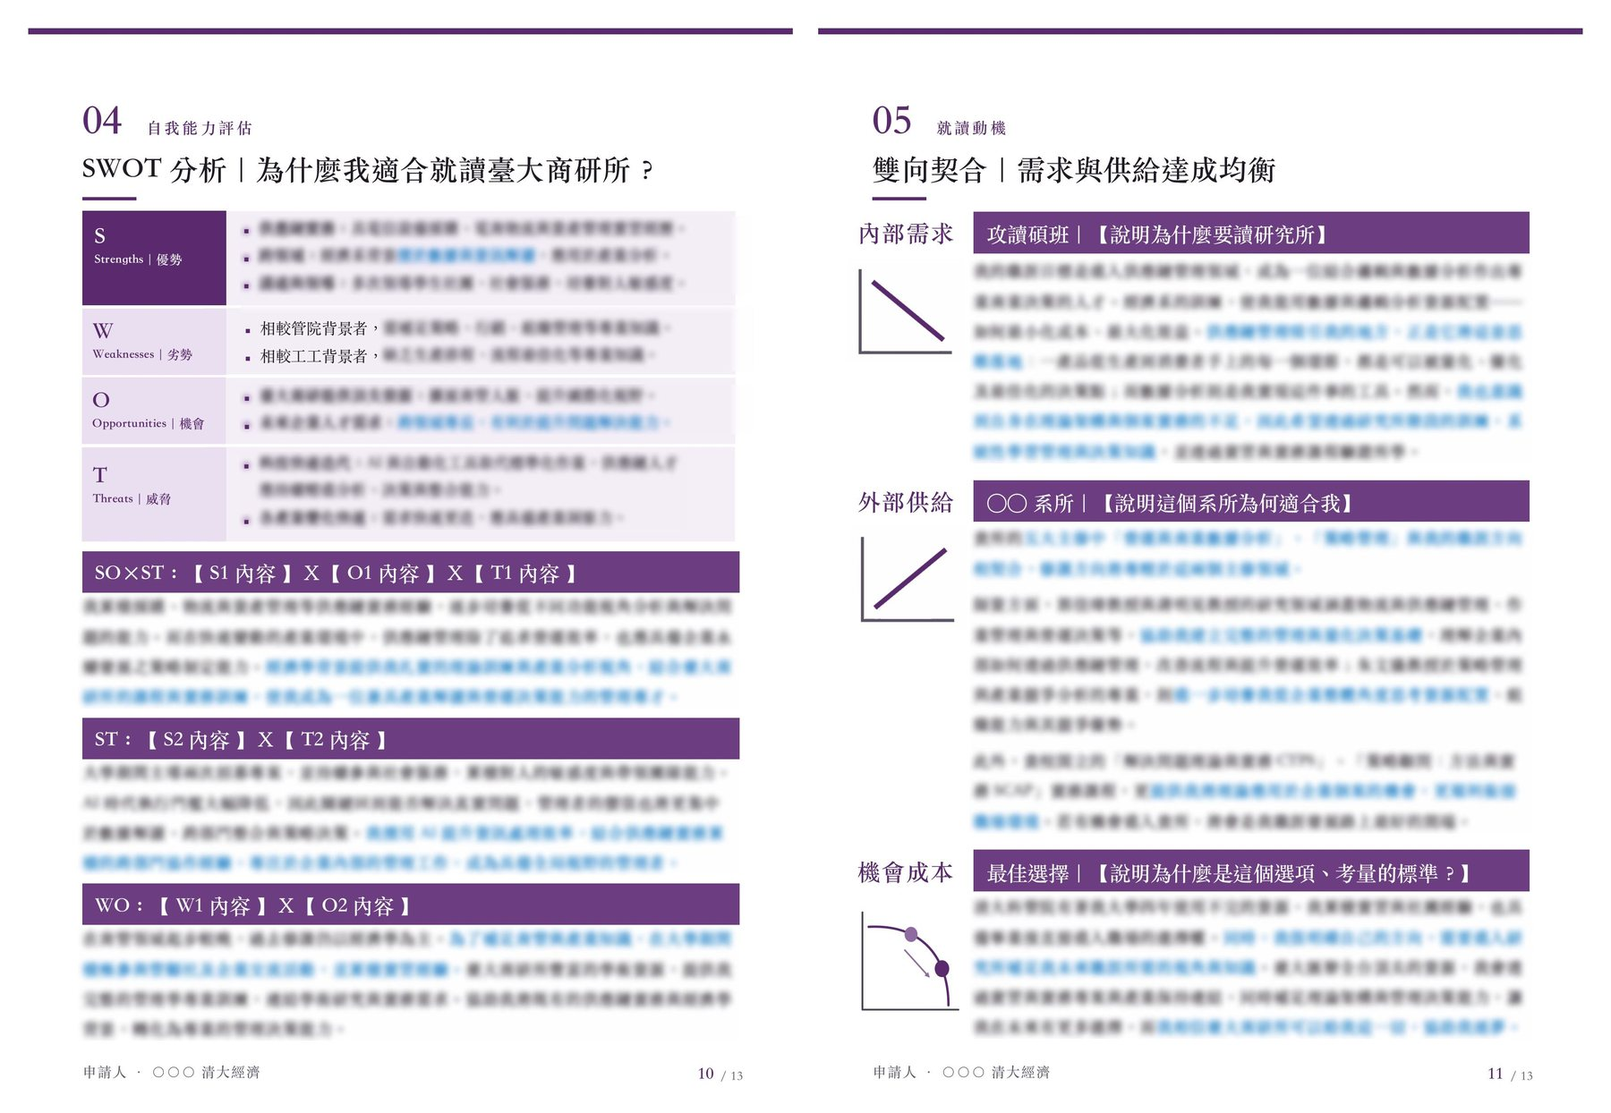
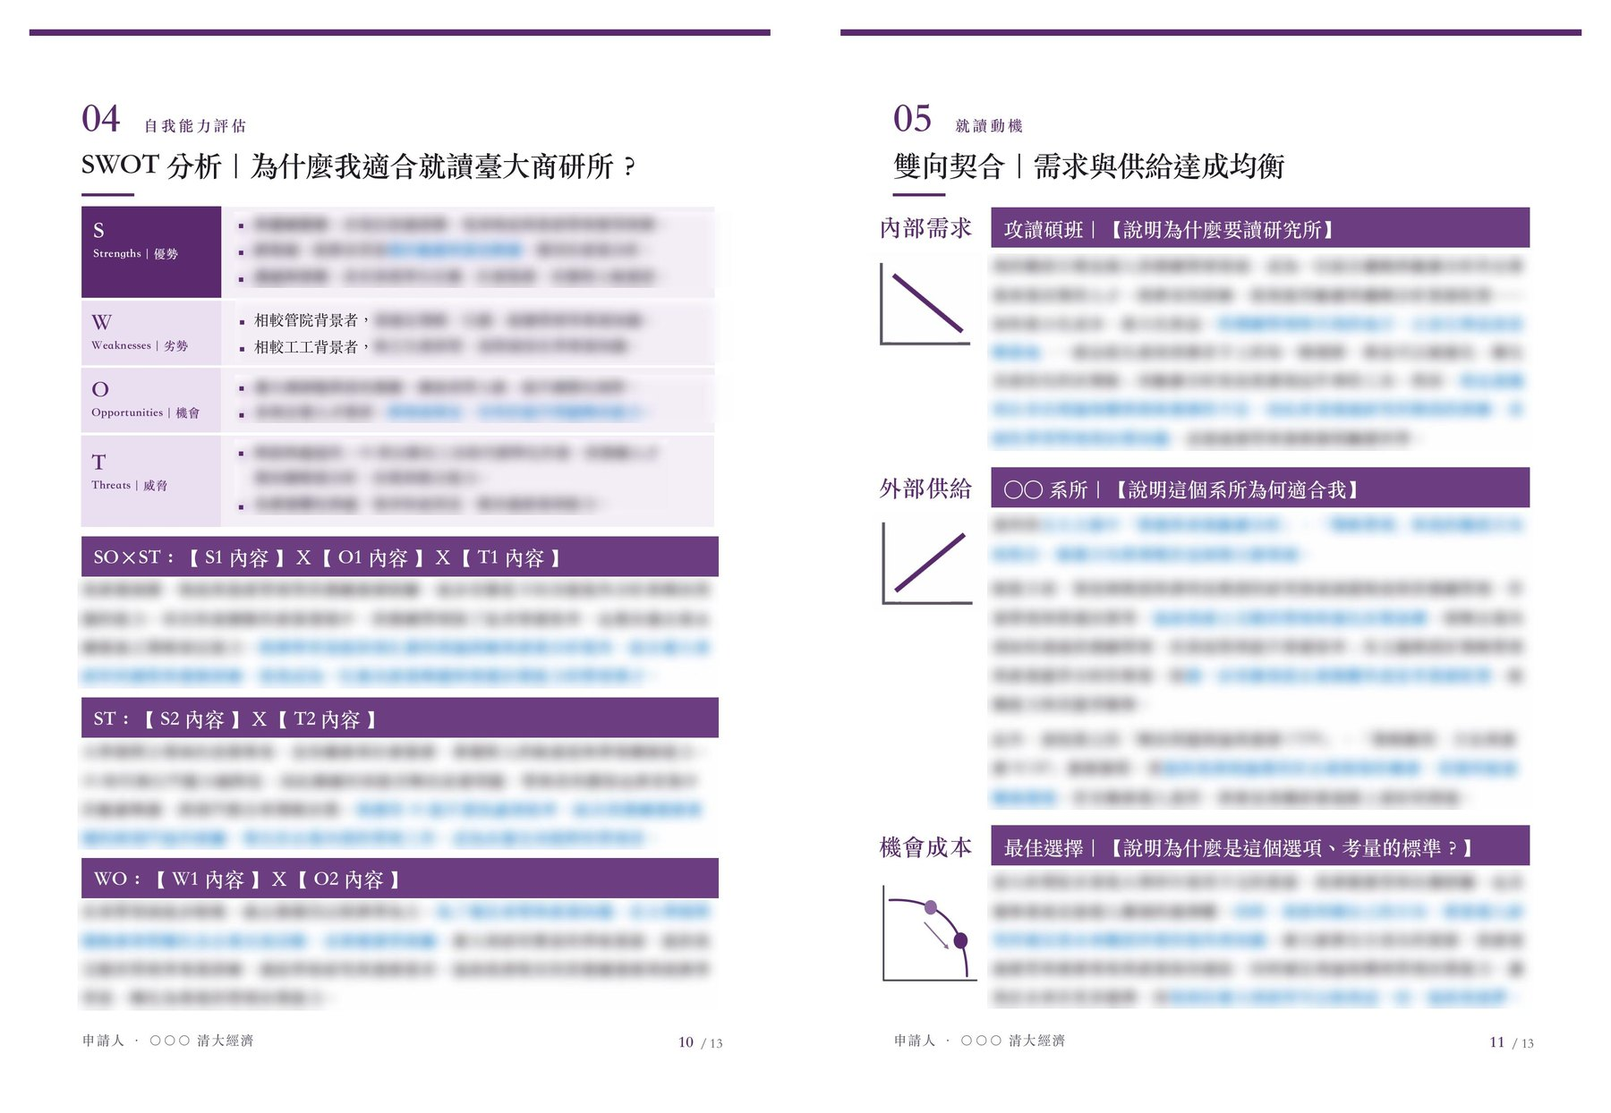
docs: heavier-blur plan images from Notion; cover/TOC/CV as one image

diff --git a/docs.html b/docs.html
@@ -8,7 +8,7 @@
 <meta content="Royee Chu" name="author"/>
 <meta content="台大商研所、國企所推甄書審：個人資料表、學習計畫書、其他有利審查資料與 Checklist。" name="description"/>
 <script>try{var t=localStorage.getItem("theme");if(t)document.documentElement.dataset.theme=t}catch(e){}</script>
-<link href="assets/site.css?v=1795760256" rel="stylesheet"/>
+<link href="assets/site.css?v=1795760695" rel="stylesheet"/>
 
 <link rel="icon" href="favicon-32.png" type="image/png" sizes="32x32" />
 <link rel="icon" href="favicon.svg" type="image/svg+xml" />
@@ -31,8 +31,8 @@
 <p><mark>整包申請中最重要的一項</mark>，我是學習計劃書完成才回來寫。<mark>書審階段要精心打磨，口試時要能侃侃而談</mark>。</p>
 <h3>一、揚長避短</h3>
 <ol><li>盡可能展現自己優勢中相對強勢的部分、避免過多著墨於優勢中的劣勢。<br><small>eg. 多益 860-895 &gt; 金色，900+ &gt; 直接寫分數</small></li><li>口試時，教授勢必會在其中挑 1-2 題來問，其中<mark>社團經歷更是考古題中的常客</mark>，建議花點心思準備。</li></ol><h3>二、視覺化
-</h3><ol><li>將欄位以表格的形式呈現，展現資訊呈現的功力，也能突顯個人的亮點。</li><li>商研所限制較多，有既定的格式、書寫要求（僅能列點說明）；國企所雖限 1 頁但有更大排版彈性，可以在欄位內自由運用。</li></ol><p>不過，我認為<mark>最重要還是展現個人故事線</mark>。我自己不到 900 分但還是放了分數，因為我想展現我後來我的英文能力是有成長的（雅思），事實上也真的在口試被問到。當然這沒有一個放諸四海的標準，就看個人選擇。</p><div class="shots pair"><figure class="shot" style="flex:0.796"><img loading="lazy" src="img/profile-1.jpg?v=1795760256" alt=""><figcaption><small>116 商研 [節錄範例]</small></figcaption></figure>
-<figure class="shot" style="flex:2.148"><img loading="lazy" src="img/profile-2.jpg?v=1795760256" alt=""><figcaption><small>116 國企 [節錄範例]</small></figcaption></figure>
+</h3><ol><li>將欄位以表格的形式呈現，展現資訊呈現的功力，也能突顯個人的亮點。</li><li>商研所限制較多，有既定的格式、書寫要求（僅能列點說明）；國企所雖限 1 頁但有更大排版彈性，可以在欄位內自由運用。</li></ol><p>不過，我認為<mark>最重要還是展現個人故事線</mark>。我自己不到 900 分但還是放了分數，因為我想展現我後來我的英文能力是有成長的（雅思），事實上也真的在口試被問到。當然這沒有一個放諸四海的標準，就看個人選擇。</p><div class="shots pair"><figure class="shot" style="flex:0.796"><img loading="lazy" src="img/profile-1.jpg?v=1795760695" alt=""><figcaption><small>116 商研 [節錄範例]</small></figcaption></figure>
+<figure class="shot" style="flex:2.148"><img loading="lazy" src="img/profile-2.jpg?v=1795760695" alt=""><figcaption><small>116 國企 [節錄範例]</small></figcaption></figure>
 </div>
 
 </div>
@@ -43,35 +43,32 @@
 <p>圍繞著兩條故事線：<mark>我現在是一個什麼樣的人，以及我未來的發展方向是什麼</mark>。</p><p>而為了達成這個目標，我過去付出了哪些行動、成果如何、又對我帶來了哪些影響。</p>
 <h3>一、封面、目錄、簡歷</h3>
 <h4>1. 封面、目錄｜</h4><p>見仁見智，可做可不做。若要做封面就得好好設計，畢竟是第一頁。封面我是放了 1–2 句話點出我的兩條故事線（我是誰、我想做啥），搭配 3–4 組數據（GPA、排名、獎項、檢定成績）。由於我的故事線不適合把動機寫在書審資料的前半段，因此有做目錄讓對動機比較感興趣的教授可以直接跳轉。</p><h4>2. 個人簡歷｜</h4><p>再次提及書審的兩條故事線（同封面），感覺放 CV 怪怪的，還是參考排版客製化了一份。</p>
-<div class="shots pair">
-<figure class="shot" style="flex:1.412"><img loading="lazy" src="img/plan-0.jpg?v=1795760256" alt=""><figcaption>封面、目錄</figcaption></figure>
-<figure class="shot" style="flex:0.707"><img loading="lazy" src="img/plan-cv.jpg?v=1795760256" alt=""><figcaption>個人簡歷</figcaption></figure>
-</div>
+<figure class="shot wide"><img loading="lazy" src="img/plan-0.jpg?v=1795760695" alt="封面、目錄、個人簡歷"><figcaption>封面、目錄、個人簡歷</figcaption></figure>
 <h3>二、自傳、求學經歷</h3>
 <p>成長背景簡單帶過，把區塊獨立出來，它的功能是銜接：我是如何建立起以下這些特質的</p>
 <p>要寫好個人特質真是門學問。我的原則不花篇幅<mark>描述這個特質，取而代之的是</mark>透過社團、實習等具體事蹟，讓教授感受到我確實有ＯＯ特質。最後再把這些特質收束成我在團隊中、在未來職涯中會是什麼樣的人。</p><p>至於要選哪些特質，可以參考系所官網，不外乎領導力、溝通能力、團隊合作等（至少要挑 1–2 個寫）</p>
-<figure class="shot wide"><img loading="lazy" src="img/plan-1.jpg" alt="自傳：成長背景 × 多元特質"><figcaption>自傳：成長背景 × 多元特質</figcaption></figure>
+<figure class="shot wide"><img loading="lazy" src="img/plan-1.jpg?v=1795760695" alt="自傳：成長背景 × 多元特質"><figcaption>自傳：成長背景 × 多元特質</figcaption></figure>
 <div class="cols"><div class="col"><h3>求學經歷<small>三段</small></h3><ul><li>為什麼讀ＯＯ科系、當時的目標是什麼</li><li>職涯方向的轉變 / 探索</li><li>現在（未來）想發展的領域是......</li></ul></div><div class="col"><h3>修課經歷<small>兩段</small></h3><ul><li>大學的三年是如何規劃（修了什麼課、課外活動、交換）、成績如何、修課領域分佈。</li><li>如何連結到ＯＯ所、ＯＯ所能給我什麼效益。</li></ul></div></div>
 
 
-<figure class="shot wide"><img loading="lazy" src="img/plan-2.jpg" alt="求學與修課經歷"><figcaption>成績走勢根據個人情況調整，去年我是用折線圖，由於這兩學期成績下修，柱狀圖會更適合；修課佔比則是作為這「整頁」故事的輔助資料。</figcaption></figure><h3>三、專業能力養成<small>Anything: 實習、社團、競賽、專案、專題等</small></h3>
+<figure class="shot wide"><img loading="lazy" src="img/plan-2.jpg?v=1795760695" alt="求學與修課經歷"><figcaption>成績走勢根據個人情況調整，去年我是用折線圖，由於這兩學期成績下修，柱狀圖會更適合；修課佔比則是作為這「整頁」故事的輔助資料。</figcaption></figure><h3>三、專業能力養成<small>Anything: 實習、社團、競賽、專案、專題等</small></h3>
 <p>都強烈建議善用表格、STAR 法則，其中 S&amp;T 儘量壓縮，<mark>篇幅留給 Action 和 Result</mark>。</p>
 <ul>
 <li><b>S</b>：用 2–3 行交代專案的背景：專案的目標是什麼，我的職責 / 任務又是什麼。</li><li><b>T</b>：將最終目標拆成 2-3 個欲達成的任務。</li>
-<li><b>A</b>：根據 T 的區塊逐點說明如何達成、付出了哪些行動。</li><li><b>R：</b>以圖表和數據呈現：impact 多大、相比過去提升多少、其中有多少比例是我貢獻的</li></ul><figure class="shot wide"><img loading="lazy" src="img/plan-3.jpg" alt="自我能力評估"><figcaption>專業能力養成</figcaption></figure><h3>四、自我能力評估<small>回答為什麼我適合讀臺大ＯＯ所</small></h3><p>值得注意的是 <mark>SWOT 的比較對象是其他申請者</mark>，所以 W 寫的是背景上必然存在的劣勢（例如相較商管、工工背景），應不至於造成嚴重扣分；而不是寫「英文不好」這種扣分缺點。TOWS 則接著說明你可以如何發揮優勢、又該如何應對這項劣勢。</p><p>去年不太知道這邊該怎麼寫，因此有去請教業師的意見。討論過後我選擇用 SWOT＋TOWS 分析，<mark>非常不推薦雷達圖</mark>，因為這些能力無法被量化、更無法相互比較。</p><h3>五、就讀動機<small>由於我是經濟系的，我分為<mark>需求、供給、機會成本</mark>三點來寫</small></h3><ul><li><b>需求</b>：重申我未來發展的方向 &gt;&gt; 所以我需要讀研究所，而且是ＯＯ所。</li>
-<li><b>供給</b>：ＯＯ所在課程、師資、學校 / 學院資源三方面能怎麼幫我。</li><li><b>機會成本：</b>對我來說讀碩班的機會成本是就業，本段說明我為什麼不直接進入職場，最後收束到「貴所會是最適合我的下家」。</li></ul><figure class="shot wide"><img loading="lazy" src="img/plan-4.jpg" alt="就讀動機"><figcaption>自我能力評估、就讀動機</figcaption></figure>
+<li><b>A</b>：根據 T 的區塊逐點說明如何達成、付出了哪些行動。</li><li><b>R：</b>以圖表和數據呈現：impact 多大、相比過去提升多少、其中有多少比例是我貢獻的</li></ul><figure class="shot wide"><img loading="lazy" src="img/plan-3.jpg?v=1795760695" alt="自我能力評估"><figcaption>專業能力養成</figcaption></figure><h3>四、自我能力評估<small>回答為什麼我適合讀臺大ＯＯ所</small></h3><p>值得注意的是 <mark>SWOT 的比較對象是其他申請者</mark>，所以 W 寫的是背景上必然存在的劣勢（例如相較商管、工工背景），應不至於造成嚴重扣分；而不是寫「英文不好」這種扣分缺點。TOWS 則接著說明你可以如何發揮優勢、又該如何應對這項劣勢。</p><p>去年不太知道這邊該怎麼寫，因此有去請教業師的意見。討論過後我選擇用 SWOT＋TOWS 分析，<mark>非常不推薦雷達圖</mark>，因為這些能力無法被量化、更無法相互比較。</p><h3>五、就讀動機<small>由於我是經濟系的，我分為<mark>需求、供給、機會成本</mark>三點來寫</small></h3><ul><li><b>需求</b>：重申我未來發展的方向 &gt;&gt; 所以我需要讀研究所，而且是ＯＯ所。</li>
+<li><b>供給</b>：ＯＯ所在課程、師資、學校 / 學院資源三方面能怎麼幫我。</li><li><b>機會成本：</b>對我來說讀碩班的機會成本是就業，本段說明我為什麼不直接進入職場，最後收束到「貴所會是最適合我的下家」。</li></ul><figure class="shot wide"><img loading="lazy" src="img/plan-4.jpg?v=1795760695" alt="就讀動機"><figcaption>自我能力評估、就讀動機</figcaption></figure>
 <h3>六、讀書計劃</h3>
 <p>去年推甄商研所提到的近程計畫全部達成，我想這也是我有底氣在口試時不打自招的原因。讀書計劃可以拆分為以下四個部分。</p>
 <ol><li><b>現在 ~ 研究所</b>：我認為相較於寫「想做什麼」，更有說服力的是<mark>說明正在做什麼、可以達成什麼目的</mark>。</li><li><b>研究所階段</b>：(a) 修課：近 2-3 年實際有開的課（系網不太準，很多都沒開了）；(b) 課外：實習 / 競賽 / 社團 / 專案 / 社會服務。</li><li><b>未來 3–5 年與 10 年</b>：短期、長期進入什麼產業、做些什麼，最後幫自己的第一條故事線（未來目標）收尾。</li><li><b>生涯規劃</b>：替另一條故事線收尾。搭配圖片說明自己過去已經透過哪些經歷實踐，並說明未來會用什麼形式繼續完成這個目標。</li></ol><ul>
 </ul>
-<figure class="shot wide"><img loading="lazy" src="img/plan-5.jpg" alt="讀書計劃"><figcaption>讀書計劃、未來規劃</figcaption></figure>
+<figure class="shot wide"><img loading="lazy" src="img/plan-5.jpg?v=1795760695" alt="讀書計劃"><figcaption>讀書計劃、未來規劃</figcaption></figure>
 </div>
 </section>
 <section>
 <div class="sec-head"><h2><span class="no">04</span>其他有利審查資料</h2></div>
-<div class="prose"><p>建議將檔案控制在 1～3 頁內，我自己是分為學業與課外經歷各整理成一頁。也延續書審資料的排版風格，維持所有書審資料的一致性。</p><figure class="shot wide"><img loading="lazy" src="img/plan-6.jpg" alt="其他有利審查資料"><figcaption>其他有利審查資料</figcaption></figure></div></section>
+<div class="prose"><p>建議將檔案控制在 1～3 頁內，我自己是分為學業與課外經歷各整理成一頁。也延續書審資料的排版風格，維持所有書審資料的一致性。</p><figure class="shot wide"><img loading="lazy" src="img/plan-6.jpg?v=1795760695" alt="其他有利審查資料"><figcaption>其他有利審查資料</figcaption></figure></div></section>
 </div>
 </main>
-<script src="assets/site.js?v=1795760256"></script>
+<script src="assets/site.js?v=1795760695"></script>
 </body>
 </html>

diff --git a/reviews.html b/reviews.html
@@ -8,7 +8,7 @@
 <meta content="Royee Chu" name="author"/>
 <meta content="台大商研、台大國企 106–115 學年度推甄心得文：書籤、好讀版、依學年度整理。" name="description"/>
 <script>try{var t=localStorage.getItem("theme");if(t)document.documentElement.dataset.theme=t}catch(e){}</script>
-<link href="assets/site.css?v=1795760256" rel="stylesheet"/>
+<link href="assets/site.css?v=1795760695" rel="stylesheet"/>
 <style>
 .fmt{display:grid;grid-template-columns:repeat(auto-fit,minmax(300px,1fr));gap:32px 48px}
 .fmt h3{display:flex;justify-content:space-between;align-items:baseline;padding-bottom:8px;border-bottom:2px solid var(--rule)}
@@ -61,8 +61,8 @@
 </section>
 </div>
 </main>
-<script src="assets/sources.js?v=1795760256"></script>
+<script src="assets/sources.js?v=1795760695"></script>
 <script>renderSources(document.getElementById("src"));document.getElementById("src-n").textContent="共 "+SOURCES.filter(s=>s.site!=="own").length+" 篇";</script>
-<script src="assets/site.js?v=1795760256"></script>
+<script src="assets/site.js?v=1795760695"></script>
 </body>
 </html>

diff --git a/index.html b/index.html
@@ -8,7 +8,7 @@
 <meta content="Royee Chu" name="author"/>
 <meta content="台大商研所、國企所碩士班推甄：簡章重點、教授、歷年面試官與心得文、書審和口試準備。" name="description"/>
 <script>try{var t=localStorage.getItem("theme");if(t)document.documentElement.dataset.theme=t}catch(e){}</script>
-<link href="assets/site.css?v=1795760256" rel="stylesheet"/>
+<link href="assets/site.css?v=1795760695" rel="stylesheet"/>
 <style>
 .mast{padding-block:48px 28px;border-bottom:3px solid var(--rule);display:grid;gap:22px}
 .issue{display:flex;flex-wrap:wrap;gap:4px 18px;font-size:13.5px;font-weight:700;color:var(--faint)}
@@ -82,6 +82,6 @@
 </div>
 </main>
 <script>{const d=new Date(),w='日一二三四五六'[d.getDay()],t=document.querySelector('.today');if(t)t.textContent='Today: '+d.getFullYear()+'/'+(d.getMonth()+1)+'/'+d.getDate()+'（'+w+'）'}</script>
-<script src="assets/site.js?v=1795760256"></script>
+<script src="assets/site.js?v=1795760695"></script>
 </body>
 </html>

diff --git a/interview.html b/interview.html
@@ -8,7 +8,7 @@
 <meta content="Royee Chu" name="author"/>
 <meta content="台大商研所、國企所推甄口試：面試題型、準備方式，以及 106–116 學年度心得文。" name="description"/>
 <script>try{var t=localStorage.getItem("theme");if(t)document.documentElement.dataset.theme=t}catch(e){}</script>
-<link href="assets/site.css?v=1795760256" rel="stylesheet"/>
+<link href="assets/site.css?v=1795760695" rel="stylesheet"/>
 <style>
 .fmt{display:grid;grid-template-columns:repeat(auto-fit,minmax(300px,1fr));gap:32px 48px}
 .fmt h3{display:flex;justify-content:space-between;align-items:baseline;padding-bottom:8px;border-bottom:2px solid var(--rule)}
@@ -224,6 +224,6 @@
   document.querySelectorAll("details.more[open]").forEach(d=>d.dispatchEvent(new Event("toggle")));
 })();
 </script>
-<script src="assets/site.js?v=1795760256"></script>
+<script src="assets/site.js?v=1795760695"></script>
 </body>
 </html>

diff --git a/sharing.html b/sharing.html
@@ -8,7 +8,7 @@
 <meta content="Royee Chu" name="author"/>
 <meta content="台大商研所、國企所碩士班甄試：名額、口試資格、應繳資料與歷年時程。" name="description"/>
 <script>try{var t=localStorage.getItem("theme");if(t)document.documentElement.dataset.theme=t}catch(e){}</script>
-<link href="assets/site.css?v=1795760256" rel="stylesheet"/>
+<link href="assets/site.css?v=1795760695" rel="stylesheet"/>
 <style>
 .cmp-scroll{overflow-x:auto}
 table.cmp{border-collapse:collapse;width:100%;min-width:540px;font-size:15px}
@@ -182,6 +182,6 @@ document.querySelectorAll(".cmp.yrs:not(.stat)").forEach(t=>{if(t.closest(".oral
   fit();document.fonts&&document.fonts.ready.then(fit);
 });
 </script>
-<script src="assets/site.js?v=1795760256"></script>
+<script src="assets/site.js?v=1795760695"></script>
 </body>
 </html>

diff --git a/faq.html b/faq.html
@@ -8,7 +8,7 @@
 <meta content="Royee Chu" name="author"/>
 <meta content="台大商研所、國企所推甄常見問題：推薦信、成績、跨領域、兩所一起報、網路口試、報到與遞補。" name="description"/>
 <script>try{var t=localStorage.getItem("theme");if(t)document.documentElement.dataset.theme=t}catch(e){}</script>
-<link href="assets/site.css?v=1795760256" rel="stylesheet"/>
+<link href="assets/site.css?v=1795760695" rel="stylesheet"/>
 <style>
 .faq-cols{display:grid;grid-template-columns:repeat(2,minmax(0,1fr));gap:48px 56px;margin-top:24px;align-items:start}
 @media (max-width:820px){.faq-cols{grid-template-columns:1fr}}
@@ -76,6 +76,6 @@
 </section>
 </div>
 </main>
-<script src="assets/site.js?v=1795760256"></script>
+<script src="assets/site.js?v=1795760695"></script>
 </body>
 </html>

diff --git a/my.html b/my.html
@@ -6,7 +6,7 @@
 <title>個人心得｜推甄分享｜台大商研、台大國企</title>
 <meta content="116 學年度台大商研、台大國企推甄：口試紀錄、口試與書審準備、推甄心得。" name="description"/>
 <script>try{var t=localStorage.getItem("theme");if(t)document.documentElement.dataset.theme=t}catch(e){}</script>
-<link href="assets/site.css?v=1795760256" rel="stylesheet"/>
+<link href="assets/site.css?v=1795760695" rel="stylesheet"/>
 <link rel="icon" href="favicon-32.png" type="image/png" sizes="32x32" />
 <link rel="icon" href="favicon.svg" type="image/svg+xml" />
 </head>
@@ -135,6 +135,6 @@
 </section>
 </div>
 </main>
-<script src="assets/site.js?v=1795760256"></script>
+<script src="assets/site.js?v=1795760695"></script>
 </body>
 </html>

diff --git a/admin.html b/admin.html
@@ -5,8 +5,8 @@
 <meta content="width=device-width,initial-scale=1" name="viewport"/>
 <meta name="robots" content="noindex,nofollow"/>
 <title>後台</title>
-<link href="assets/site.css?v=1795760256" rel="stylesheet"/>
-<link href="assets/admin.css?v=1795760256" rel="stylesheet"/>
+<link href="assets/site.css?v=1795760695" rel="stylesheet"/>
+<link href="assets/admin.css?v=1795760695" rel="stylesheet"/>
 <link rel="icon" href="favicon.svg" type="image/svg+xml" />
 </head>
 <body class="adm">
@@ -69,6 +69,6 @@
 </div>
 <input id="file" type="file" accept="image/*" hidden>
 <p id="toast" class="adm-toast" role="status"></p>
-<script src="assets/admin.js?v=1795760256"></script>
+<script src="assets/admin.js?v=1795760695"></script>
 </body>
 </html>

diff --git a/ba.html b/ba.html
@@ -7,7 +7,7 @@
 <meta name="author" content="Royee Chu">
 <meta name="description" content="商研歷年面試官：研究領域、開課與歷年推甄面試官。">
 <script>try{var t=localStorage.getItem("theme");if(t)document.documentElement.dataset.theme=t}catch(e){}</script>
-<link rel="stylesheet" href="assets/site.css?v=1795760256">
+<link rel="stylesheet" href="assets/site.css?v=1795760695">
 <style>
 .note{font-size:13px;color:var(--muted);margin:0}
 
@@ -442,6 +442,6 @@ function follow(){const h=decodeURIComponent(location.hash.slice(1));
 }
 follow();window.addEventListener("hashchange",follow);
 </script>
-<script src="assets/site.js?v=1795760256"></script>
+<script src="assets/site.js?v=1795760695"></script>
 </body>
 </html>

diff --git a/ib.html b/ib.html
@@ -7,7 +7,7 @@
 <meta name="author" content="Royee Chu">
 <meta name="description" content="國企歷年面試官：研究領域、開課與歷年推甄面試官。">
 <script>try{var t=localStorage.getItem("theme");if(t)document.documentElement.dataset.theme=t}catch(e){}</script>
-<link rel="stylesheet" href="assets/site.css?v=1795760256">
+<link rel="stylesheet" href="assets/site.css?v=1795760695">
 <style>
 .note{font-size:13px;color:var(--muted);margin:0}
 
@@ -450,6 +450,6 @@ function follow(){const h=decodeURIComponent(location.hash.slice(1));
 }
 follow();window.addEventListener("hashchange",follow);
 </script>
-<script src="assets/site.js?v=1795760256"></script>
+<script src="assets/site.js?v=1795760695"></script>
 </body>
 </html>

diff --git a/assets/search.js b/assets/search.js
@@ -34,7 +34,7 @@
 
     // 心得文
     if(typeof SOURCES==="undefined"){
-      await new Promise(res=>{const s=document.createElement("script");s.src="assets/sources.js?v=1795760256";s.onload=res;s.onerror=res;document.head.appendChild(s)});
+      await new Promise(res=>{const s=document.createElement("script");s.src="assets/sources.js?v=1795760695";s.onload=res;s.onerror=res;document.head.appendChild(s)});
     }
     if(typeof SOURCES!=="undefined")SOURCES.forEach(s=>{
       out.push({g:"心得文",t:s.t,x:[s.t,SITE_NAME[s.site],s.y+" 學年度",s.d.map(k=>DEPT_NAME[k]).join("、"),s.note||""].join(" "),

diff --git a/assets/site.js b/assets/site.js
@@ -96,7 +96,7 @@ const FORM_URL="https://docs.google.com/forms/d/e/1FAIpQLSdNOxn6wqQEmNaLYmEl9rO9
     el.querySelectorAll("a.form-link").forEach(a=>{a.href=FORM_URL;a.target="_blank";a.rel="noopener"});
   });
   buildRail();buildIndex();
-  const sc=document.createElement("script");sc.src="assets/search.js?v=1795760256";document.body.appendChild(sc);
+  const sc=document.createElement("script");sc.src="assets/search.js?v=1795760695";document.body.appendChild(sc);
 })();
 
 /* Side outline: one dash per heading on the page; hover lists them, click jumps. */
